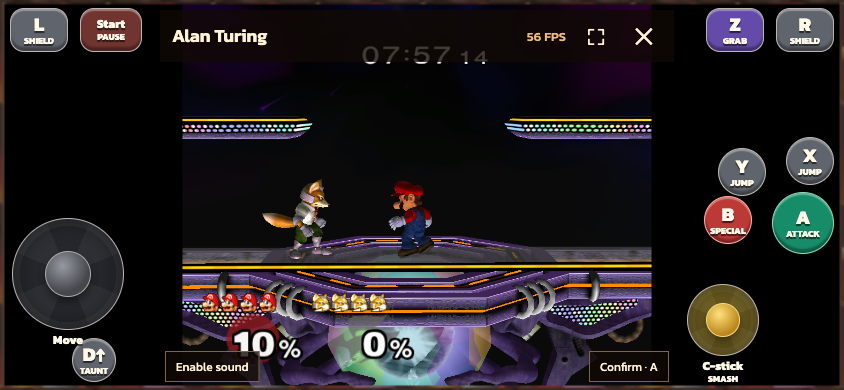
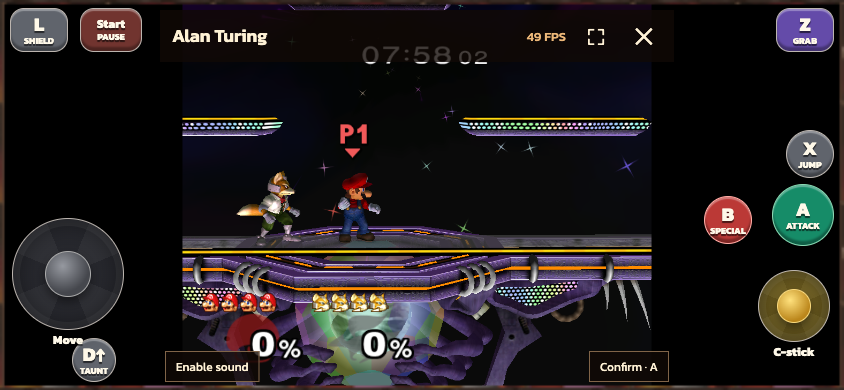
Simplify Melee touch controls and bring C-stick under right thumb

diff --git a/engines/melee/web/app/MeleeTouchControls.css b/engines/melee/web/app/MeleeTouchControls.css
@@ -6,7 +6,7 @@
  .game-panel:has(.melee-touch-deck) .game-help {display:none;}
  .game-panel:has(.melee-touch-deck) .sound-game,.game-panel:has(.melee-touch-deck) .confirm-game {bottom:292px;}
  .melee-touch-deck {display:block;position:absolute;bottom:0;left:0;right:0;height:calc(284px + env(safe-area-inset-bottom));padding-bottom:env(safe-area-inset-bottom);box-sizing:border-box;background:linear-gradient(#242126,#100f12);border-top:2px solid #675047;z-index:5;user-select:none;-webkit-user-select:none;touch-action:none;-webkit-touch-callout:none;}
- .melee-touch-deck button {position:absolute;min-width:44px;min-height:44px;margin:0;padding:0;color:#fff9e9;border:1px solid #bcb5af;font-family:inherit;font-weight:800;touch-action:none;-webkit-tap-highlight-color:transparent;text-shadow:0 2px 1px #0009;}
+ .melee-touch-deck button {pointer-events:auto;position:absolute;min-width:44px;min-height:44px;margin:0;padding:0;color:#fff9e9;border:1px solid #bcb5af;font-family:inherit;font-weight:800;touch-action:none;-webkit-tap-highlight-color:transparent;text-shadow:0 2px 1px #0009;}
  .melee-touch-button {display:grid;place-content:center;gap:1px;border-radius:50%;background:#60646c;box-shadow:inset 0 2px 1px #fff5,inset 0 -4px 2px #0005,0 4px 12px #0006;}
  .melee-touch-button span {font-size:19px;line-height:1.1;}
  .melee-touch-button small,.melee-touch-stick small {display:block;font-size:9px;line-height:1.2;text-transform:uppercase;}
@@ -22,13 +22,12 @@
  .melee-touch-stick>span {position:absolute;top:100%;left:0;right:0;margin-top:4px;font-size:12px;line-height:14px;pointer-events:none;}
  .touch-taunt {left:calc(50% - 22px);top:74px;width:44px;height:44px;}
  .touch-main {left:max(12px,env(safe-area-inset-left));top:76px;}
- .melee-touch-stick.touch-c {width:70px;height:70px;left:calc(50% - 35px);top:182px;background-color:#756321;}
+ .melee-touch-stick.touch-c {width:70px;height:70px;right:max(10px,env(safe-area-inset-right));top:188px;background-color:#756321;}
  .touch-c i {width:34px;height:34px;left:calc(50% - 17px);top:calc(50% - 17px);background:radial-gradient(circle at 38% 32%,#ffe17d,#bb861b 70%);border-color:#f7d77c;}
- .melee-touch-actions {position:absolute;right:max(10px,env(safe-area-inset-right));top:65px;width:144px;height:142px;}
- .melee-touch-actions .touch-a {width:62px;height:62px;right:0;top:62px;background:#168c68;border-color:#8bd9b3;}
+ .melee-touch-actions {pointer-events:none;position:absolute;right:max(10px,env(safe-area-inset-right));top:65px;width:144px;height:142px;}
+ .melee-touch-actions .touch-a {width:62px;height:62px;right:0;top:54px;background:#168c68;border-color:#8bd9b3;}
  .melee-touch-actions .touch-b {width:48px;height:48px;left:14px;top:66px;background:#bb3936;border-color:#ffaba5;}
- .melee-touch-actions .touch-x {width:48px;height:48px;right:0;top:7px;}
- .melee-touch-actions .touch-y {width:48px;height:48px;left:28px;top:18px;}
+ .melee-touch-actions .touch-x {width:48px;height:48px;right:0;top:0;}
 }
 @media (pointer:coarse) and (orientation:landscape) {
  .arena-shell:has(.melee-touch-deck) {--arena-content-width:100vw;}
@@ -38,11 +37,10 @@
  .melee-touch-deck button {pointer-events:auto;}
  .touch-taunt {left:72px;top:auto;bottom:8px;}
  .touch-main {top:auto;bottom:60px;}
- .melee-touch-stick.touch-c {left:auto;right:max(85px,env(safe-area-inset-right));top:auto;bottom:34px;width:72px;height:72px;}
+ .melee-touch-stick.touch-c {left:auto;right:max(14px,env(safe-area-inset-right));top:auto;bottom:48px;width:72px;height:72px;}
  .melee-touch-actions {top:auto;bottom:118px;}
  .melee-touch-shoulders {top:8px;}
  .melee-touch-shoulders .touch-start {position:absolute;left:70px;}
- .melee-touch-shoulders .touch-z {position:absolute;right:70px;}
  .game-panel:has(.melee-touch-deck) header {left:160px;right:170px;}
  .game-panel:has(.melee-touch-deck) .sound-game {left:165px;}
  .game-panel:has(.melee-touch-deck) .confirm-game {right:175px;}

diff --git a/engines/melee/web/app/MeleeTouchControls.tsx b/engines/melee/web/app/MeleeTouchControls.tsx
@@ -1,7 +1,7 @@
 import './MeleeTouchControls.css';
 import {useEffect,useRef,type MutableRefObject,type PointerEvent} from 'react';
 import {neutralTouchPad,stickVector,type TouchPad} from '../lib/touch-pad';
-const actions=[['L','Shield',0x40],['Start','Pause',0x1000],['Z','Grab',0x10],['R','Shield',0x20],['Y','Jump',0x800],['X','Jump',0x400],['B','Special',0x200],['A','Attack',0x100]] as const;
+const actions=[['L','Shield',0x40],['Start','Pause',0x1000],['Z','Grab',0x10],['X','Jump',0x400],['B','Special',0x200],['A','Attack',0x100]] as const;
 export default function MeleeTouchControls({pad}:{pad:MutableRefObject<TouchPad>}){
  const deck=useRef<HTMLDivElement>(null);
  const pointers=useRef(new Map<number,{kind:string;button?:number;element:HTMLElement}>());
@@ -41,10 +41,10 @@ export default function MeleeTouchControls({pad}:{pad:MutableRefObject<TouchPad>
   },onPointerMove:move,onPointerUp:(e:PointerEvent<HTMLElement>)=>release(e.pointerId),onPointerCancel:(e:PointerEvent<HTMLElement>)=>release(e.pointerId),onLostPointerCapture:(e:PointerEvent<HTMLElement>)=>release(e.pointerId)
  });
  return <div ref={deck} className="melee-touch-deck" aria-label="Melee touch controller" onContextMenu={e=>e.preventDefault()}>
-  <div className="melee-touch-shoulders">{actions.slice(0,4).map(([label,help,bit])=><button key={label} className={`melee-touch-button touch-${label.toLowerCase()}`} aria-label={`${label}: ${help}`} aria-pressed="false" {...handlers(label,bit)}><span>{label}</span><small>{help}</small></button>)}</div>
+  <div className="melee-touch-shoulders">{actions.slice(0,3).map(([label,help,bit])=><button key={label} className={`melee-touch-button touch-${label.toLowerCase()}`} aria-label={`${label}: ${help}`} aria-pressed="false" {...handlers(label,bit)}><span>{label}</span><small>{help}</small></button>)}</div>
   <button className="melee-touch-button touch-taunt" aria-label="D-pad up: taunt" aria-pressed="false" {...handlers('taunt',0x8)}><span>D↑</span><small>Taunt</small></button>
   <button className="melee-touch-stick touch-main" aria-label="Control stick: move" aria-pressed="false" {...handlers('main')}><i/><span>Move</span></button>
-  <button className="melee-touch-stick touch-c" aria-label="C-stick: smash attacks" aria-pressed="false" {...handlers('c')}><i/><span>C-stick<small>Smash</small></span></button>
-  <div className="melee-touch-actions">{actions.slice(4).map(([label,help,bit])=><button key={label} className={`melee-touch-button touch-${label.toLowerCase()}`} aria-label={`${label}: ${help}`} aria-pressed="false" {...handlers(label,bit)}><span>{label}</span><small>{help}</small></button>)}</div>
+  <button className="melee-touch-stick touch-c" aria-label="C-stick: smash attacks" aria-pressed="false" {...handlers('c')}><i/><span>C-stick</span></button>
+  <div className="melee-touch-actions">{actions.slice(3).map(([label,help,bit])=><button key={label} className={`melee-touch-button touch-${label.toLowerCase()}`} aria-label={`${label}: ${help}`} aria-pressed="false" {...handlers(label,bit)}><span>{label}</span><small>{help}</small></button>)}</div>
  </div>;
 }

diff --git a/engines/melee/validation/launch-prep/README.md b/engines/melee/validation/launch-prep/README.md
@@ -5,8 +5,8 @@
 - Verified Melee ISO/GCM files stream into origin-private browser storage. Refreshing or restarting the browser restores and verifies the saved file automatically. No ISO upload or server-side disc persistence is involved.
 - The standalone launcher, shared smash.fun launch gate, and Melee settings use the same disc session. Clicking a fighter during restoration waits for the existing restore operation.
 - A completed file replaces the saved copy atomically. Quota failure and cancellation preserve the previous copy; abandoned staging files are reclaimed. Unsupported storage falls back to playing from the selected file. Clear/Forget Disc deletes this cache without touching the original file or memory-card saves.
-- Melee touch controls provide analog movement, a labeled yellow C-stick, green A, red B, X/Y jump, Z grab, L/R shields (including trigger values), Start, and D-pad-up taunt. Multiple pointers retain independent ownership; release, cancellation, focus loss, and orientation changes reset input.
-- Portrait uses a control deck below the game; landscape places controls beside the game. CSS and components are Melee-only. N64 continues to use its existing colored controller.
+- Melee touch controls provide analog movement, a labeled yellow C-stick, green A, red B, one X jump button, Z grab, one L shield button (including its trigger value), Start, and D-pad-up taunt. Multiple pointers retain independent ownership; release, cancellation, focus loss, and orientation changes reset input.
+- Portrait uses a control deck below the game; landscape places controls beside the game. The C-stick sits directly below A near the right edge in both layouts. CSS and components are Melee-only. N64 continues to use its existing colored controller.
 
 ## Focused validation
 
